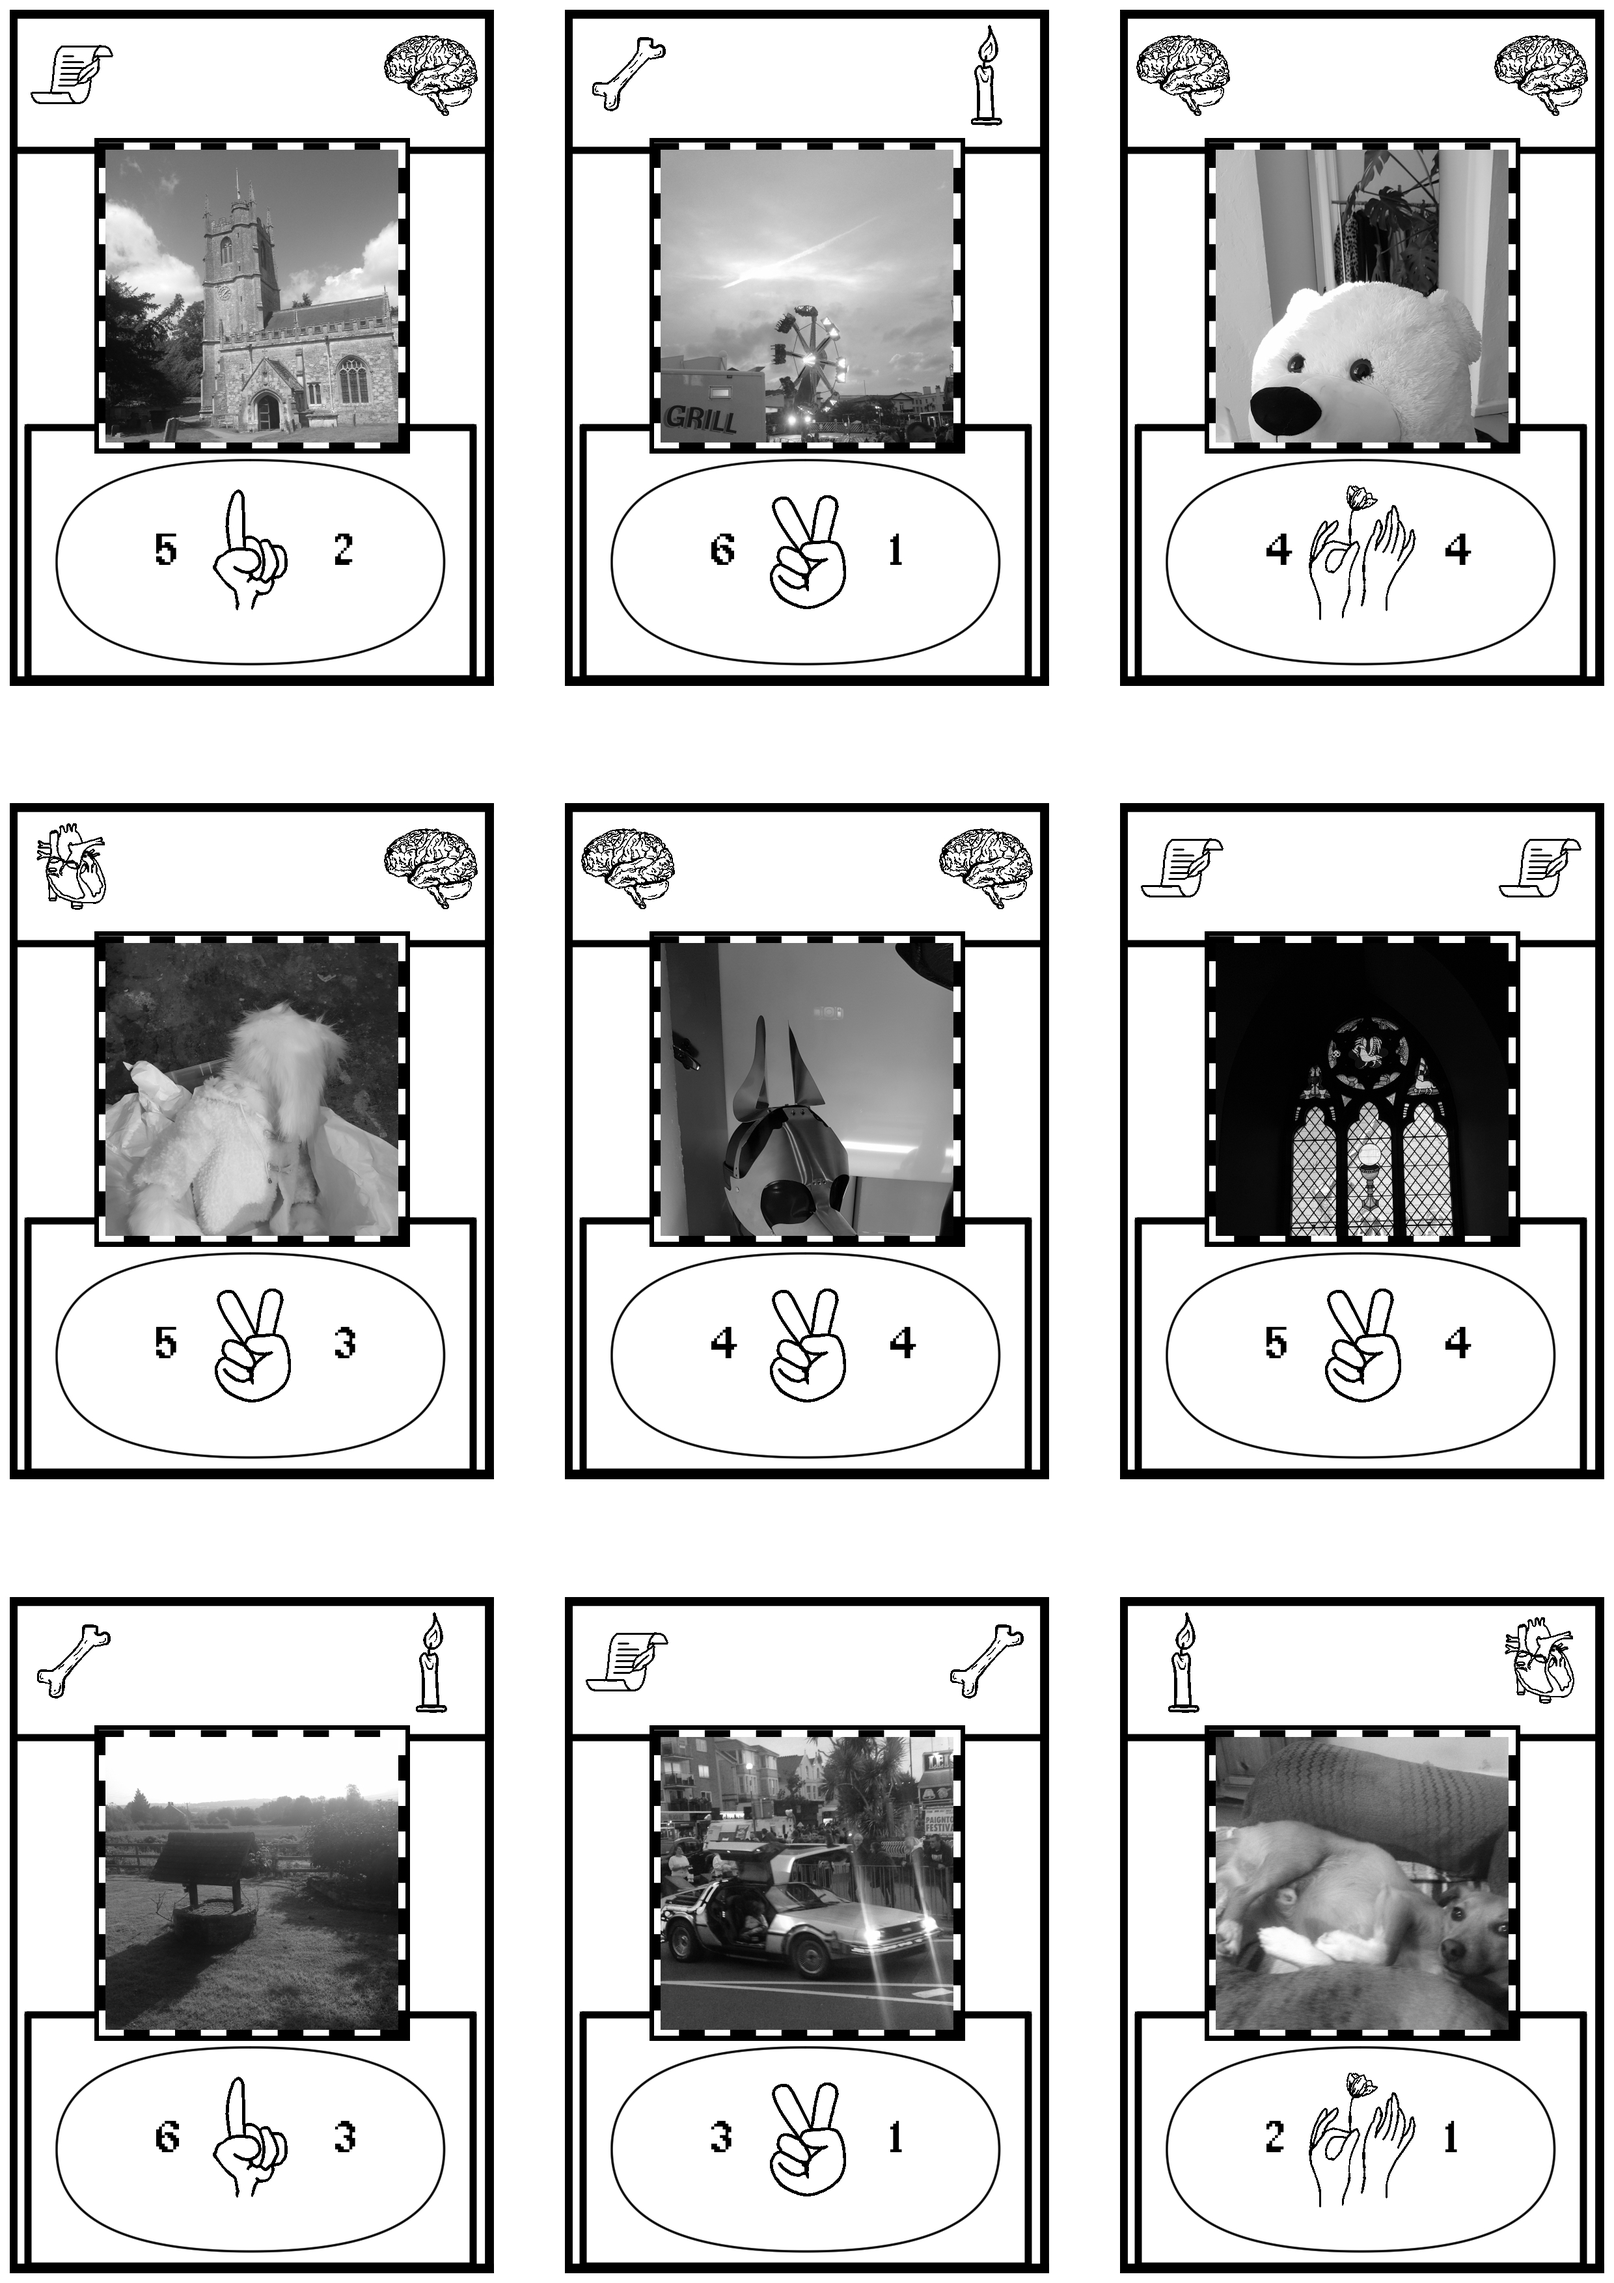
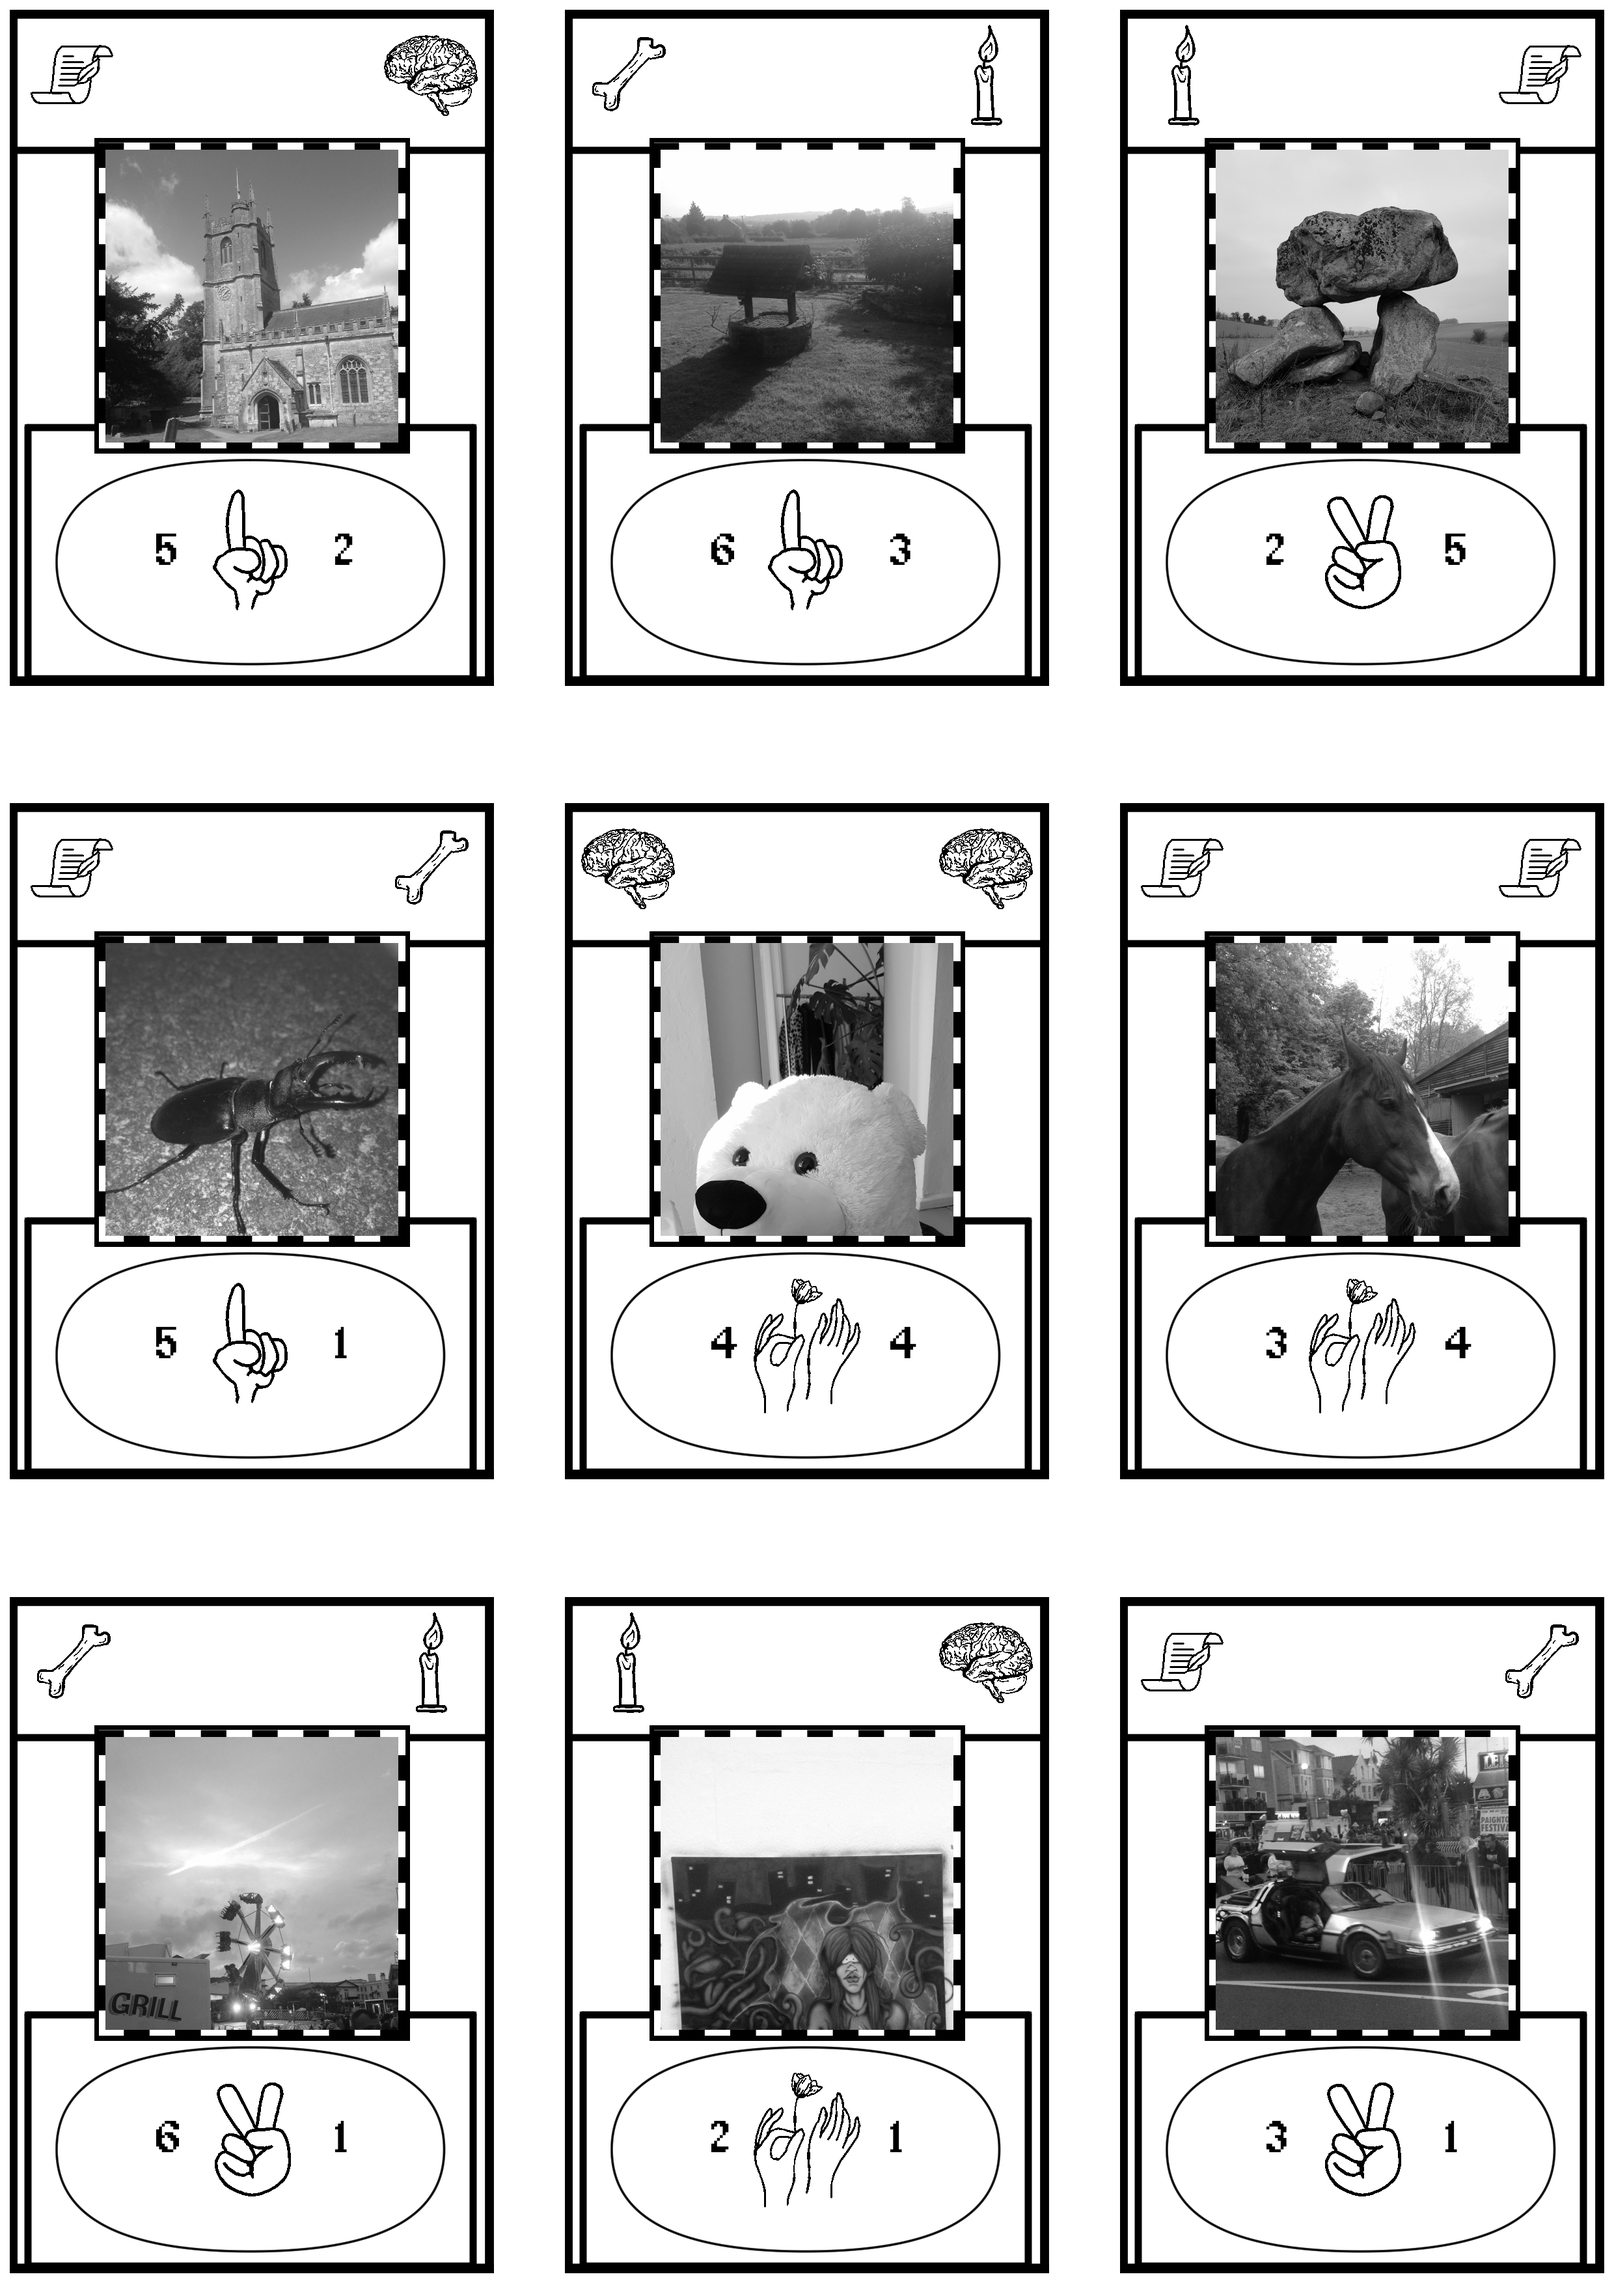
server sends card sheet as base64 to front end

diff --git a/client/src/components/Offerings.js b/client/src/components/Offerings.js
@@ -1,23 +1,62 @@
-import React, { Component } from 'react'
-import axios from 'axios';
+import React, { Component } from "react";
+import axios from "axios";
 
 export default class Offerings extends Component {
-
   state = {
-    offerings: []
-  }
+    fileName: "",
+  };
 
   Download = (e) => {
-    axios({url:'/api/furnace/', method: 'GET', responseType: 'blb'})
-        .then((response) => console.log('processed the file: ',response.data))
-        .catch((err)=>console.log(err));
-  }
-  
+    var today = new Date();
+    var nameForFile =
+      today.getMonth() +
+      "-" +
+      today.getDate() +
+      "-" +
+      today.getFullYear() +
+      "-" +
+      today.getHours() +
+      ":" +
+      today.getMinutes() +
+      ":" +
+      today.getSeconds();
+    this.setState({
+      fileName: nameForFile,
+    });
+    axios
+      .get(`/api/furnace/`)
+      .then((res) => {
+        console.log(res.data)
+        // const url = window.URL.createObjectURL(new Blob([res.data]));
+        // const link = document.createElement("a");
+        // link.href = url;
+        // link.setAttribute("download", "some_file_name.ext");
+        // document.body.appendChild(link);
+        // link.click();
+        // link.remove();
+      })
+      // axios({
+      //   url: `/api/furnace/offering/${this.state.fileName}`,
+      //   method: "GET",
+      //   responseType: "blob",
+      // })
+      //   .then((res) => {
+      //     console.log('DATA HERE:', res.data)
+      //     const url = window.URL.createObjectURL(new Blob([res.data]));
+      //     const link = document.createElement("a");
+      //     link.href = url;
+      //     link.setAttribute("download", this.state.fileName);
+      //     document.body.appendChild(link);
+      //     link.click();
+      //   })
+      .catch((err) => console.log(err));
+  };
+
   render() {
     return (
       <div>
         <button onClick={this.Download}>Download</button>
       </div>
-    )
+    );
   }
 }

diff --git a/routes/furnace.js b/routes/furnace.js
@@ -6,12 +6,14 @@ const app = require("../app");
 const { RandomGenerator } = require("./middlewares");
 const { write } = require("jimp");
 const Card = require("../models/Card");
+const { base } = require("../models/Card");
 
 let template = "./image-processing/assets/major-template.jpg";
 let imgExport = "./image-processing/exports/export.jpg";
 let blank = "./image-processing/assets/blank.jpg";
 
 router.get("/", (req, res, next) => {
+  // var fileName = req.params.fileName + '.jpg';
   var selection = [];
   Card.aggregate([{ $sample: { size: 9 } }])
     .then((sample) => {
@@ -52,7 +54,9 @@ router.get("/", (req, res, next) => {
                       .then((background)=>{
                         Jimp.read(selection[8].imageData.buffer).then((s9) => {
                           return background.composite(s9, 1721, 2454, [Jimp.BLEND_DESTINATION_OVER])
-                          .write(imgExport);
+                          .getBase64Async(Jimp.MIME_JPEG).then((base64)=>{
+                            res.status(200).json(base64);
+                          })
                         })
                       })
                     })
